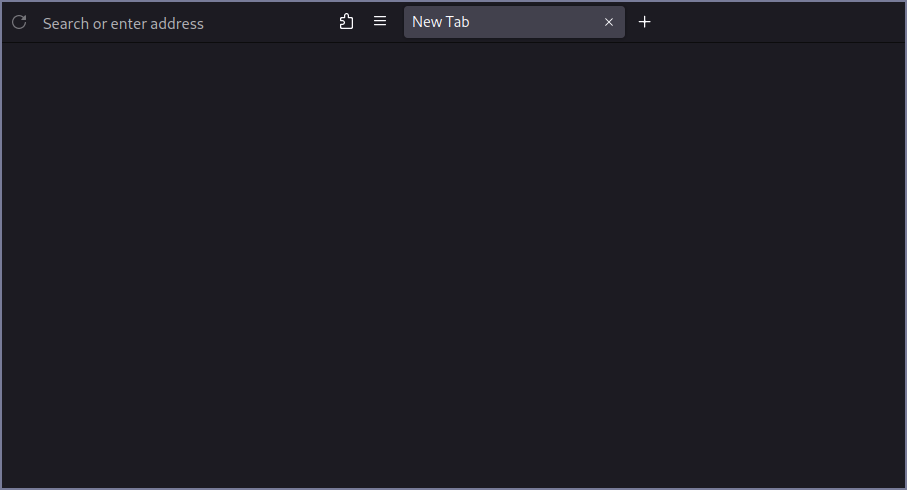
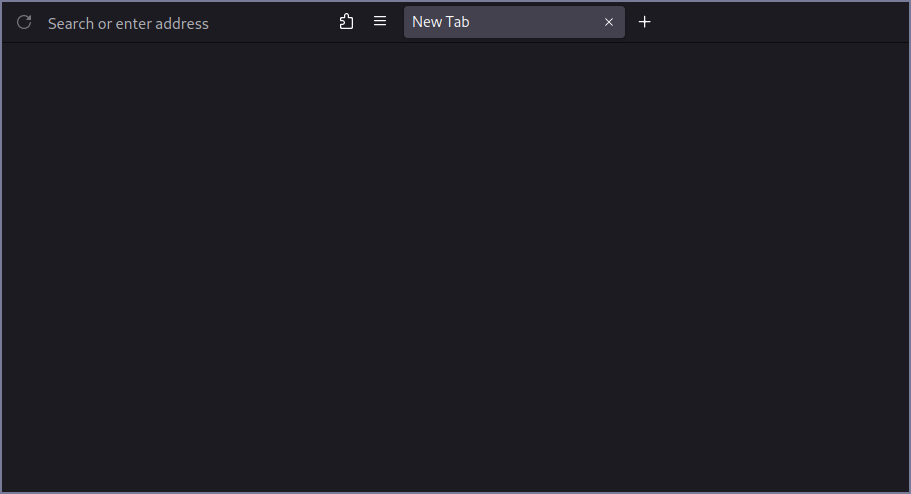
Fix inconsistent spacing

Changed region(s): [[0.0, 0.0306, 0.247, 0.0612], [0.3705, 0.0306, 0.5248, 0.0612], [0.6483, 0.0306, 0.71, 0.0612]]

diff --git a/userChrome.css b/userChrome.css
@@ -56,7 +56,7 @@ toolbar#nav-bar {
 }
 
 #back-button[disabled="true"] {
-    margin-left: -39px !important;
+    margin-left: -34px !important;
     opacity: 0 !important;
     transform: scale(0.8, 0.8) !important;
     pointer-events: none !important;
